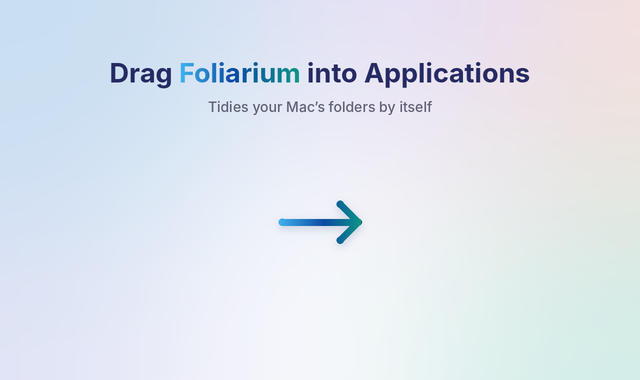
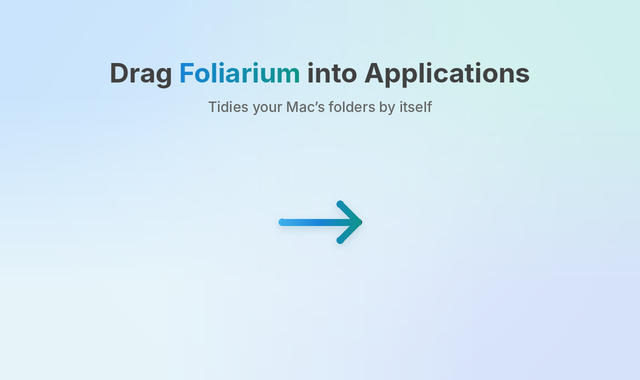
Use the product card's theme for the DMG window
The background is now the Foliarium card's wash from semicolon.consulting
(sky blue, mint, periwinkle), with #414141 text and the app name and arrow
in teal #0D9488.

Claude-Session: https://claude.ai/code/session_01CdKS2PHKV8VhHwKhcTpjkA

diff --git a/Design/dmg/make-background.py b/Design/dmg/make-background.py
@@ -1,8 +1,8 @@
 #!/usr/bin/env python3
 """Draws the DMG window background: background.png (640x420) and background@2x.png.
 
-Colors come from the Foliarium product page (semicolon.consulting/foliarium): navy #262b63 text,
-brand blue #0B4AA2 to teal #0D9488 for the app name, and the soft blue / lavender / peach wash.
+Colors follow the Foliarium card on semicolon.consulting: the sky blue / mint / periwinkle wash,
+#414141 text, #666666 tagline and teal #0D9488 for the app name and the arrow.
 The app icon and the Applications folder are drawn by Finder on top, at the positions set in
 scripts/dmg-settings.py, so keep the two in step.
 
@@ -22,9 +22,9 @@ HERE = os.path.dirname(os.path.abspath(__file__))
 BOLD = sys.argv[1] if len(sys.argv) > 1 else "/usr/share/fonts/opentype/inter/Inter-Bold.otf"
 MEDIUM = sys.argv[2] if len(sys.argv) > 2 else "/usr/share/fonts/opentype/inter/Inter-Medium.otf"
 
-NAVY = (38, 43, 99)
-MUTED = (97, 97, 120)
-BLUE = (11, 74, 162)
+INK = (65, 65, 65)
+MUTED = (102, 102, 102)
+BLUE = (24, 132, 214)
 SKY = (63, 178, 236)
 TEAL = (13, 148, 136)
 
@@ -45,21 +45,20 @@ def hgradient(size, stops):
 
 
 def background():
-    w, h = W * S, H * S
-    img = Image.new("RGB", (w, h), (250, 250, 253))
-    wash = Image.new("RGB", (w, h), (250, 250, 253))
-    d = ImageDraw.Draw(wash)
-    # Soft colour blobs, blurred into a wash (product page: #7fb7d9, #b9a6d9, #f2c4a8, teal).
-    for (cx, cy, r, color) in [
-        (60, 40, 210, (196, 220, 240)),    # sky blue, top left
-        (600, 30, 200, (246, 222, 210)),   # peach, top right
-        (430, 0, 150, (228, 220, 244)),    # lavender, top
-        (620, 380, 190, (206, 236, 230)),  # mint/teal, bottom right
-        (40, 390, 160, (224, 226, 246)),   # lavender, bottom left
-    ]:
-        d.ellipse([(cx - r) * S, (cy - r) * S, (cx + r) * S, (cy + r) * S], fill=color)
-    wash = wash.filter(ImageFilter.GaussianBlur(90 * S))
-    img = Image.blend(img, wash, 0.9)
+    """The product card's wash: sky blue top left, mint top right, periwinkle bottom right."""
+    corners = {  # (x, y) in 0..1 -> rgb, sampled from the Foliarium card on semicolon.consulting
+        (0, 0): (201, 228, 252), (1, 0): (207, 239, 237),
+        (0, 1): (230, 244, 250), (1, 1): (214, 226, 250),
+    }
+    small = Image.new("RGB", (2, 2))
+    for (x, y), c in corners.items():
+        small.putpixel((x, y), c)
+    img = small.resize((W * S, H * S), Image.BILINEAR)
+    # A soft, lighter glow across the middle, like the card's centre.
+    glow = Image.new("L", img.size, 0)
+    ImageDraw.Draw(glow).ellipse([120 * S, 40 * S, 520 * S, 330 * S], fill=120)
+    glow = glow.filter(ImageFilter.GaussianBlur(70 * S))
+    img.paste((236, 246, 251), (0, 0), glow)
     return img
 
 
@@ -97,11 +96,11 @@ def draw_arrow(img):
         d.ellipse([cx - t / 2, cy - t / 2, cx + t / 2, cy + t / 2], fill=255)
     d.ellipse([x1 - t / 2, y - t / 2, x1 + t / 2, y + t / 2], fill=255)
     grad = Image.new("RGB", (w, h))
-    grad.paste(hgradient((x1 - x0 + t, h), [(0, SKY), (0.55, BLUE), (1, TEAL)]), (int(x0 - t / 2), 0))
+    grad.paste(hgradient((x1 - x0 + t, h), [(0, SKY), (0.5, BLUE), (1, TEAL)]), (int(x0 - t / 2), 0))
     # A faint shadow under the arrow.
     shadow = mask.filter(ImageFilter.GaussianBlur(4 * S)).point(lambda v: v * 0.18)
     shadow = ImageChops.offset(shadow, 0, 3 * S)
-    img.paste((11, 40, 110), (0, 0), shadow)
+    img.paste((10, 90, 110), (0, 0), shadow)
     img.paste(grad, (0, 0), mask)
 
 
@@ -109,8 +108,8 @@ def main():
     img = background()
     headline = ImageFont.truetype(BOLD, 27 * S)
     tagline = ImageFont.truetype(MEDIUM, 14 * S)
-    draw_text(img, 56 * S, [("Drag ", NAVY), ("Foliarium", [(0, SKY), (0.45, BLUE), (1, TEAL)]),
-                            (" into Applications", NAVY)], headline)
+    draw_text(img, 56 * S, [("Drag ", INK), ("Foliarium", [(0, BLUE), (1, TEAL)]),
+                            (" into Applications", INK)], headline)
     draw_text(img, 98 * S, [("Tidies your Mac’s folders by itself", MUTED)], tagline)
     draw_arrow(img)
     img.save(os.path.join(HERE, "background@2x.png"), optimize=True)
